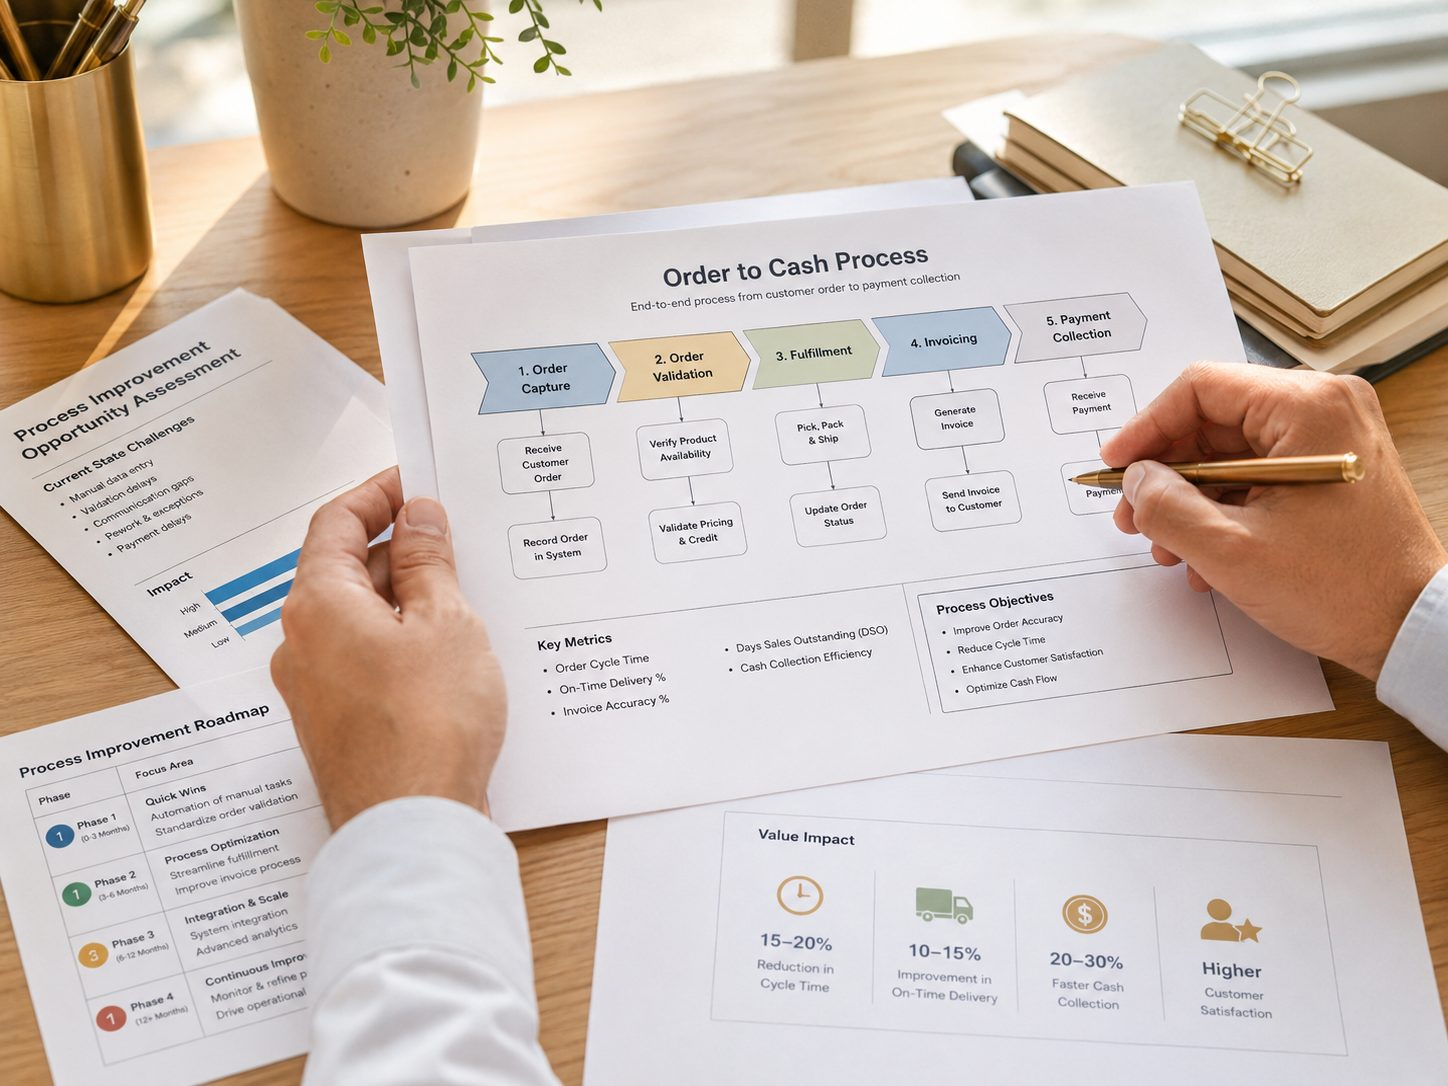
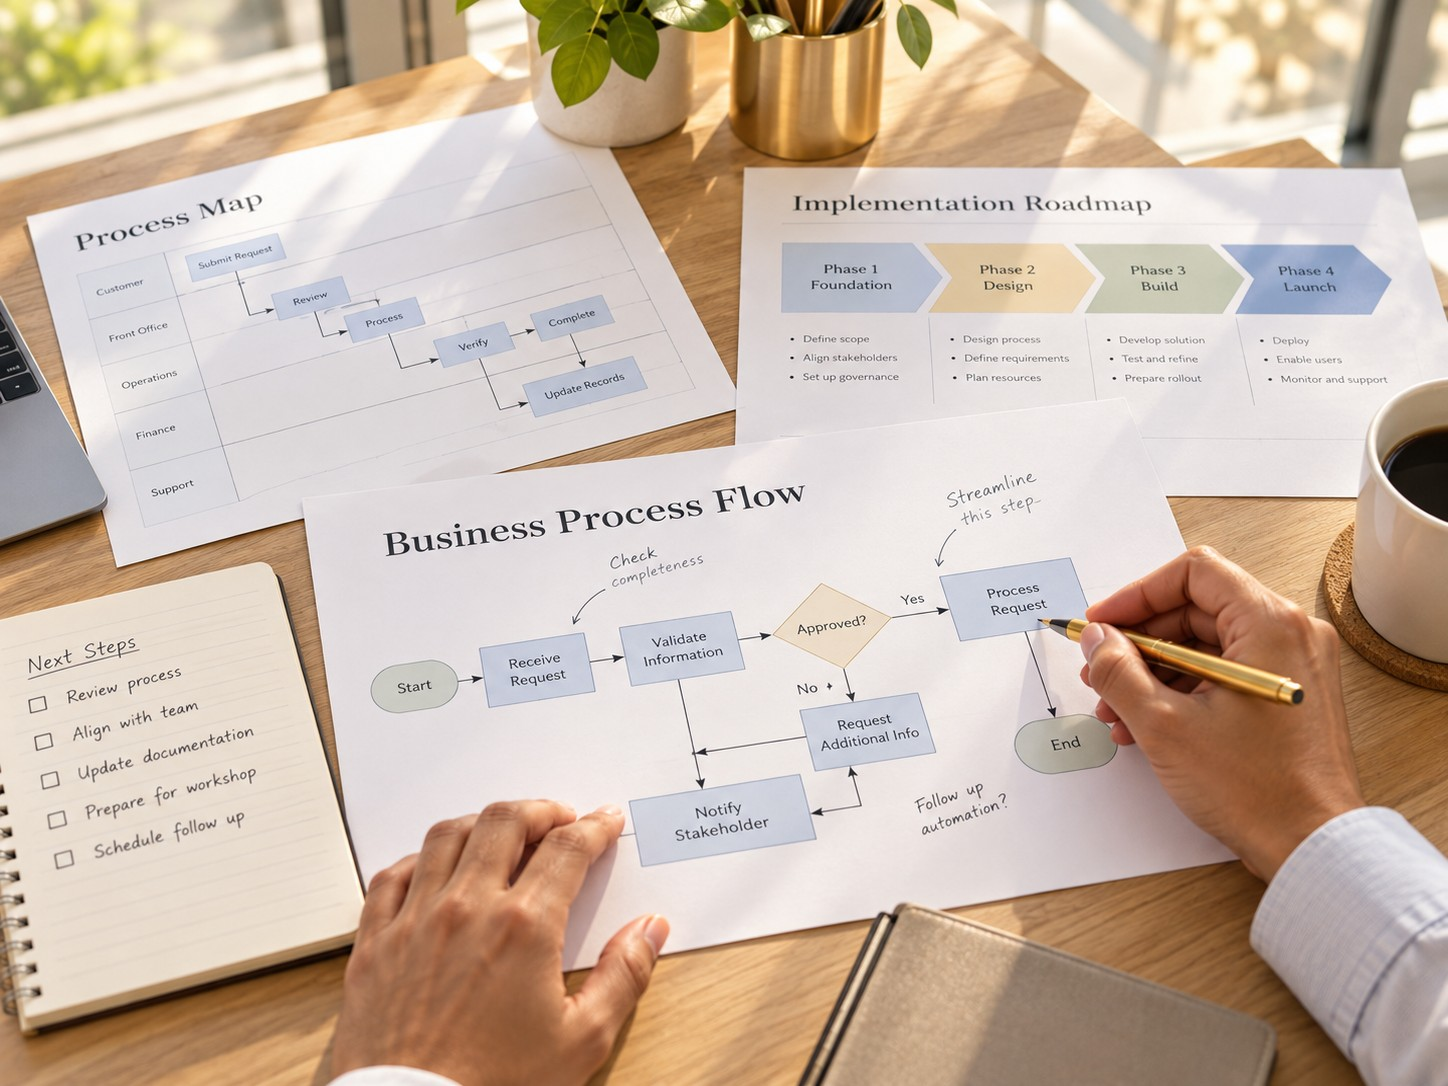
Replace who-we-are.jpg, which displayed fabricated client results
The home page image rendered a "Value Impact" card reading "15-20%
Reduction in Cycle Time", "10-15% Improvement in On-Time Delivery" and
"20-30% Faster Cash Collection" -- legible, and framed as a Qamira
assessment deliverable. /case-studies states plainly that Qamira is an
early-stage firm without publicly citable client results yet, so the two
pages contradicted each other on the claim that matters most.

The replacement keeps the composition -- hands annotating a process flow
on a sunlit desk -- and swaps the results card for a "Next Steps"
checklist and handwritten margin notes, so it reads as a diagnosis in
progress rather than a summary of outcomes.

Note the original prompt already said "no text" and the generator
produced a page of it anyway. Blanket bans get ignored; naming the
specific forbidden thing works. The brief now forbids percentages and
outcome claims rather than text in general -- generic methodology labels
are fine and add credibility, as client-tier-growth.jpg shows.

An audit of the other fifteen images found three more instances, all
still live and not fixed here: client-tier-smb.jpg and
client-tier-enterprise.jpg both carry an "Expected Outcomes" card
(15-25% / 20-30% / 10-20%), and technology-hero.jpg reads "Potential
Impact: Increase efficiency by up to 35%". Replacement prompts for all
three are in the brief. The nine technology detail images are clean --
demo data inside a product mockup is not a results claim.
[…]

diff --git a/src/components/sections/home/TechnologyPreview.tsx b/src/components/sections/home/TechnologyPreview.tsx
@@ -28,7 +28,7 @@ export function TechnologyPreview() {
         <div className="mt-14 grid gap-10 lg:grid-cols-[0.85fr_1.15fr] lg:items-center lg:gap-14">
           <PhotoSlot
             src="/photos/technology-preview.jpg"
-            label="Abstract tech/automation visual -- a clean UI dashboard glimpsed on a screen, or a close-up of an automation workflow diagram. Charcoal/brass duotone."
+            label="Abstract tech/automation visual -- a clean UI dashboard glimpsed on a screen, or a close-up of an automation workflow diagram. Bright, warm and high-key."
             alt="A laptop screen displaying an abstract analytics dashboard"
           />
           <RevealGroup className="grid gap-6 sm:grid-cols-3">

diff --git a/src/pages/Technology.tsx b/src/pages/Technology.tsx
@@ -76,7 +76,7 @@ export function Technology() {
         breadcrumbLabel="Technology"
         photo={{
           src: "/photos/technology-hero.jpg",
-          label: "Product-mockup style -- a clean chatbot/CRM UI or automation workflow glimpsed on a screen. Charcoal/brass duotone, this one can be more literal since it's illustrating real software.",
+          label: "Product-mockup style -- a clean chatbot/CRM UI or automation workflow glimpsed on a screen. Bright, warm and high-key; this one can be more literal since it's illustrating real software.",
           alt: "A laptop displaying a generic AI customer assistant chatbot interface",
         }}
       />

diff --git a/src/components/sections/home/WhoWeAre.tsx b/src/components/sections/home/WhoWeAre.tsx
@@ -21,8 +21,8 @@ export function WhoWeAre() {
           </div>
           <PhotoSlot
             src="/photos/who-we-are.jpg"
-            label="Diagnosis in progress -- hands annotating a printed process map, or a laptop screen showing a data model. Charcoal/brass duotone, editorial lighting."
-            alt="Hands annotating a printed business process diagram"
+            label="Diagnosis in progress -- hands annotating a printed process map on a sunlit desk, warm and high-key."
+            alt="Hands annotating a printed business process map on a sunlit desk"
           />
         </Reveal>
 

diff --git a/src/pages/Services.tsx b/src/pages/Services.tsx
@@ -53,7 +53,7 @@ export function Services() {
         breadcrumbLabel="Services"
         photo={{
           src: "/photos/services-hero.jpg",
-          label: "Editorial, process/strategy mood -- e.g. a whiteboard mid-session, or documents and a laptop on a desk. Charcoal/brass duotone.",
+          label: "Editorial, process/strategy mood -- e.g. a whiteboard mid-session, or documents and a laptop on a desk. Bright, warm and high-key.",
           alt: "A strategy session mapping a business process on a whiteboard",
         }}
       />

diff --git a/src/components/sections/home/ClientTiers.tsx b/src/components/sections/home/ClientTiers.tsx
@@ -7,7 +7,7 @@ import { PhotoSlot } from "@/components/brand/PhotoSlot";
 import { clientTiers } from "@/data/content/home";
 
 const tierPhotoLabels = [
-  "SMB context -- a small, focused office/workspace, charcoal/brass duotone.",
+  "SMB context -- a small, focused office/workspace.",
   "Growth-stage context -- a lean startup workspace, energetic but not chaotic.",
   "Enterprise-division context -- a larger, more structured office setting.",
 ];

diff --git a/docs/photography-brief.md b/docs/photography-brief.md
@@ -20,16 +20,32 @@ Generate via Google AI Studio, then either upload the files directly in chat, or
 ### 1. Home -- "Who we are" section
 **File:** `public/photos/who-we-are.jpg` -- **Aspect:** 4:3
 
-> A bright, professional editorial photograph, close-up shot, of a pair of hands annotating a printed business-process diagram on a light wooden desk with a pen. Papers overlap slightly. Soft, warm natural daylight floods in from a window, creating an airy, optimistic mood with minimal shadow. Light, warm color palette -- soft neutral tones with brass-gold as an accent color. High-key lighting, shallow depth of field, clean and energetic. No visible face, no text, no logos, no watermark.
+> A bright, professional editorial photograph in 4:3 landscape format, shot close-up from above: a pair of hands annotating a printed business-process flow diagram on a light wooden desk with a gold-barrelled pen. Two or three other printed sheets overlap around it -- a process map and a phased roadmap -- alongside a notebook, a brass pen pot and a small plant at the edge of frame. The documents can carry ordinary generic labels: process stage names, phase headings, simple flow-chart boxes and arrows. **No percentage figures, no performance results, no "X% improvement" or "X% reduction" cards, and no before/after metrics anywhere in the image** -- the papers should read as work in progress, not as a results summary. Soft, warm natural daylight floods in from a window: airy, optimistic, high-key, minimal shadow. Light, warm colour palette of cream and soft neutrals with brass-gold accents. Shallow depth of field, clean and energetic. No face in frame, no logos, no watermark.
+
+**Why this was rewritten (Sept 2026).** The shipped version of this image renders a "Value Impact" card reading
+"15–20% Reduction in Cycle Time", "10–15% Improvement in On-Time Delivery" and "20–30% Faster Cash Collection" --
+fabricated client results, legible, on the home page, while `/case-studies` states plainly that Qamira is an
+early-stage firm without publicly citable client results yet. A prospect who reads both has caught the site
+contradicting itself on the one claim that matters most.
+
+Note the original prompt said "no text" and the generator produced a page of it anyway. Blanket bans get ignored;
+naming the specific forbidden thing works better, which is why the rule above is about *percentages and outcome
+claims* rather than text in general. Generic methodology labels are fine and add credibility -- see
+`client-tier-growth.jpg`, which is full of them. The fuller reasoning is in `photography-brief-industries.md`.
 
 ### 2-4. Home -- "Client Tiers" (one per tier)
 **Files:** `public/photos/client-tier-smb.jpg`, `public/photos/client-tier-growth.jpg`, `public/photos/client-tier-enterprise.jpg` -- **Aspect:** 4:3
 
-> **SMB tier:** A bright, professional editorial photograph of a small, focused office workspace: a single desk with a laptop and neatly organized papers, bathed in warm natural window light, airy and energetic. Light, warm color palette with brass-gold accents, high-key lighting, minimal shadow. No visible faces, no text, no logos, no watermark.
+> **SMB tier:** A bright, professional editorial photograph in 4:3 landscape format of a small, focused office workspace: a single sunlit wooden desk with an open laptop showing a clean, generic business dashboard, and two printed sheets laid out in front of it -- a phased "Process Improvement Roadmap" and a "Process Map". A notebook, brass pen pot and small plant sit alongside; a few sticky notes on the wall behind carry short phrases like "Process Efficiency" and "Customer Value". Warm natural window light, airy and energetic, high-key with minimal shadow. Light, warm colour palette with brass-gold accents. The documents may carry phase names, process stage labels and metric *names*. **No percentage figures anywhere, and specifically no "Expected Outcomes" or results summary block** -- nothing on any sheet or screen may state an efficiency, cost, time or satisfaction improvement. No faces, no logos, no watermark.
 >
 > **Growth-stage tier:** A bright, professional editorial photograph of a lean startup workspace: an open-plan area filled with natural daylight, a whiteboard covered in sticky notes and diagrams visible in the background, a sense of energy and forward motion. Light, warm color palette with brass-gold accents, high-key lighting. No visible faces, no text, no logos, no watermark.
 >
-> **Enterprise tier:** A bright, professional editorial photograph of a large, structured office setting: a glass-walled meeting room or long conference table, filled with natural daylight, spacious and optimistic. Light, warm color palette with brass-gold accents, high-key lighting. No visible faces, no text, no logos, no watermark.
+> **Enterprise tier:** A bright, professional editorial photograph in 4:3 landscape format of a large, structured boardroom: a long sunlit conference table with leather chairs, city windows behind, and two open leather folders in the foreground holding printed documents -- a phased "Process Improvement Roadmap" and a "Business Performance Overview" with simple bar and line charts. A brass pen and water glass alongside. Spacious, optimistic, high-key with warm natural daylight. Light, warm colour palette with brass-gold accents. Documents may carry phase names and chart axes. **No percentage figures anywhere, and specifically no "Expected Outcomes" or results summary block** -- nothing may state an efficiency, cost, time or satisfaction improvement. No faces, no logos, no watermark.
+
+**Why the SMB and Enterprise prompts were rewritten (Sept 2026).** Both shipped images render an "Expected
+Outcomes" card reading "15–25% Increase in Efficiency", "20–30% Cost Optimization" and "10–20% Faster Time to
+Market" on what is plainly a Qamira "Process Improvement Roadmap" -- the same fabricated-results problem as the
+original `who-we-are.jpg`, and on the same page. The growth-tier image is unaffected and should be kept as is.
 
 ### 5. Home -- "Technology Preview" section
 **File:** `public/photos/technology-preview.jpg` -- **Aspect:** 4:3
@@ -44,7 +60,14 @@ Generate via Google AI Studio, then either upload the files directly in chat, or
 ### 7. Technology page hero
 **File:** `public/photos/technology-hero.jpg` -- **Aspect:** 4:3
 
-> A clean, bright, professional product-style photograph of a laptop screen on a minimal, sunlit desk, displaying a generic chatbot conversation interface or CRM dashboard mockup -- abstract UI elements and chart shapes only, no legible text. Natural daylight, warm and energetic, light color palette with brass-gold accent highlights in the interface. Shallow depth of field. No visible face, no logos, no watermark. This one can read more literally than the others since it's illustrating real software capability, not an abstract concept.
+> A clean, bright, professional product-style photograph in 4:3 landscape format of a laptop screen on a minimal, sunlit desk, displaying a generic AI customer-assistant interface: a conversation thread on the left, and side panels showing conversation status, contact details and quick actions. Realistic placeholder content throughout -- a demo contact name, an `@example.com` address, a `(555)` phone number, ordinary statuses like "In Progress" and "High". **No panel may present a results or impact claim** -- specifically nothing along the lines of "Potential Impact: increase efficiency by up to X%", and no percentage breakdown of improvement areas. Ordinary product metrics such as response times or counts are fine. Natural daylight, warm and energetic, light colour palette with brass-gold accent highlights in the interface. Shallow depth of field. No logos, no watermark. This one can read more literally than the others since it's illustrating real software capability.
+
+**Why this was rewritten (Sept 2026).** The shipped image's bottom-right "Smart Insights" panel reads "Potential
+Impact: Increase efficiency by up to 35%" above a 45/30/15/10% breakdown -- a performance claim rendered legibly
+on the Technology page hero. Demo data inside a product mockup is fine and every other technology image uses it
+without issue; a stated improvement percentage is not, because it reads as something Qamira is promising. The
+same image also carries minor duplicated-text artifacts ("Customer Assistant / Assistant", "Topic / Topic")
+worth fixing in the same pass.
 
 ---
 
